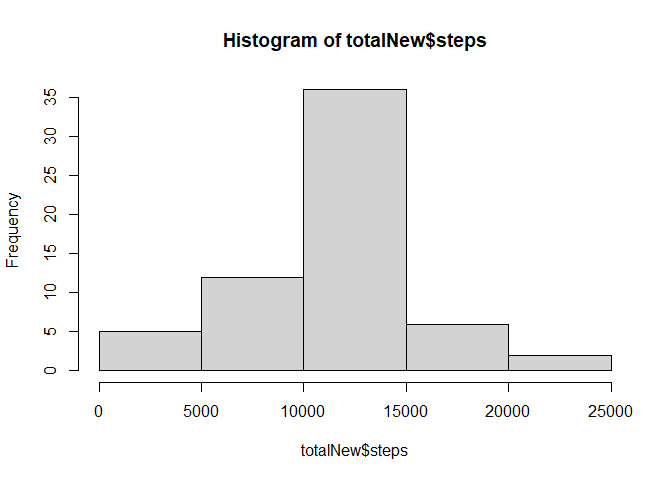
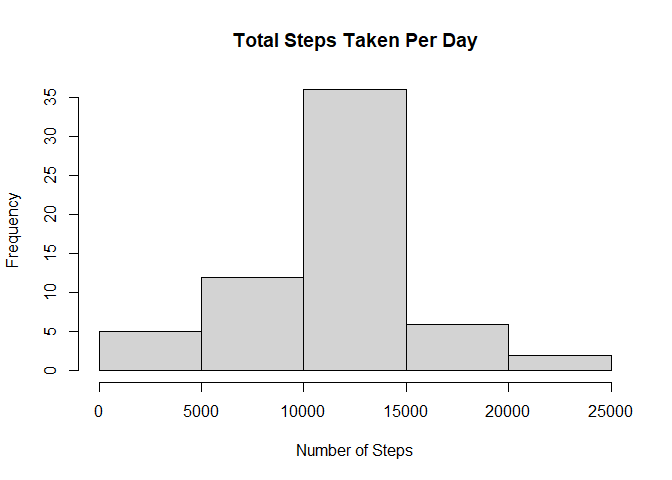
Fixing graph titles

Changed region(s): [[0.3125, 0.0625, 0.7188, 0.125], [0.4375, 0.9062, 0.625, 0.9688]]

diff --git a/PA1_template.html b/PA1_template.html
@@ -395,12 +395,10 @@ your analysis</h3>
 </div>
 <div id="make-a-histogram-of-the-total-number-of-steps-taken-per-day" class="section level3">
 <h3>Make a histogram of the total number of steps taken per day</h3>
-<pre class="r"><code>hist(total$steps, 
-      main = &quot;Total Steps Taken Each Day&quot;, 
-      xlab = &quot;Number of Steps&quot;, 
+<pre class="r"><code>hist(total$steps, main = &quot;Total Steps Taken Per Day&quot;, xlab = &quot;Number of Steps&quot;, 
       ylab = &quot;Frequency&quot;, 
 )</code></pre>
[2 lines of base64/hex data omitted]
 </div>
 <div id="calculate-and-report-the-mean-and-median-of-the-total-number-of-steps-per-day" class="section level3">
 <h3>Calculate and report the mean and median of the total number of
@@ -459,8 +457,10 @@ day</h3>
         group_by(date) %&gt;%
         summarize(steps = sum(steps))</code></pre>
 <p>Then, we can make the histogram:</p>
-<pre class="r"><code>hist(totalNew$steps)</code></pre>
[1 lines of base64/hex data omitted]
+<pre class="r"><code>hist(totalNew$steps, main = &quot;Total Steps Taken Per Day&quot;, xlab = &quot;Number of Steps&quot;, 
+      ylab = &quot;Frequency&quot;, 
+)</code></pre>
[1 lines of base64/hex data omitted]
 <p>Lastly, we can get the mean and median of the new data set:</p>
 <pre class="r"><code>mean_narm &lt;- mean(totalNew$steps)
 median_narm &lt;- median(totalNew$steps)</code></pre>
@@ -494,8 +494,8 @@ averaged across all weekday days or weekend days (y-axis)</h3>
 ## `.groups` argument.</code></pre>
 <pre class="r"><code>xyplot(steps ~ interval | factor(day), data = ave_activity2, aspect = 1/2, 
     type = &quot;l&quot;, xlab = &quot;5-minute Interval&quot;, ylab = &quot;Average Number of Steps&quot;,
-    main = &quot;Average Number of Steps per 5-minute Interval over Weekends and Weekdays&quot;)</code></pre>
[1 lines of base64/hex data omitted]
+    main = &quot;Average Number of Steps Per 5-minute Interval&quot;)</code></pre>
[1 lines of base64/hex data omitted]
 </div>
 </div>
 

diff --git a/PA1_template.md b/PA1_template.md
@@ -76,9 +76,7 @@ total <- activity %>%
 
 
 ``` r
-hist(total$steps, 
-      main = "Total Steps Taken Each Day", 
-      xlab = "Number of Steps", 
+hist(total$steps, main = "Total Steps Taken Per Day", xlab = "Number of Steps", 
       ylab = "Frequency", 
 )
 ```
@@ -159,7 +157,9 @@ totalNew <- activityNew %>%
 Then, we can make the histogram:
 
 ``` r
-hist(totalNew$steps)
+hist(totalNew$steps, main = "Total Steps Taken Per Day", xlab = "Number of Steps", 
+      ylab = "Frequency", 
+)
 ```
 
 ![](PA1_template_files/figure-html/unnamed-chunk-11-1.png)<!-- -->
@@ -204,7 +204,7 @@ ave_activity2 <- activity2 %>%
 ``` r
 xyplot(steps ~ interval | factor(day), data = ave_activity2, aspect = 1/2, 
     type = "l", xlab = "5-minute Interval", ylab = "Average Number of Steps",
-    main = "Average Number of Steps per 5-minute Interval over Weekends and Weekdays")
+    main = "Average Number of Steps Per 5-minute Interval")
 ```
 
 ![](PA1_template_files/figure-html/unnamed-chunk-14-1.png)<!-- -->
